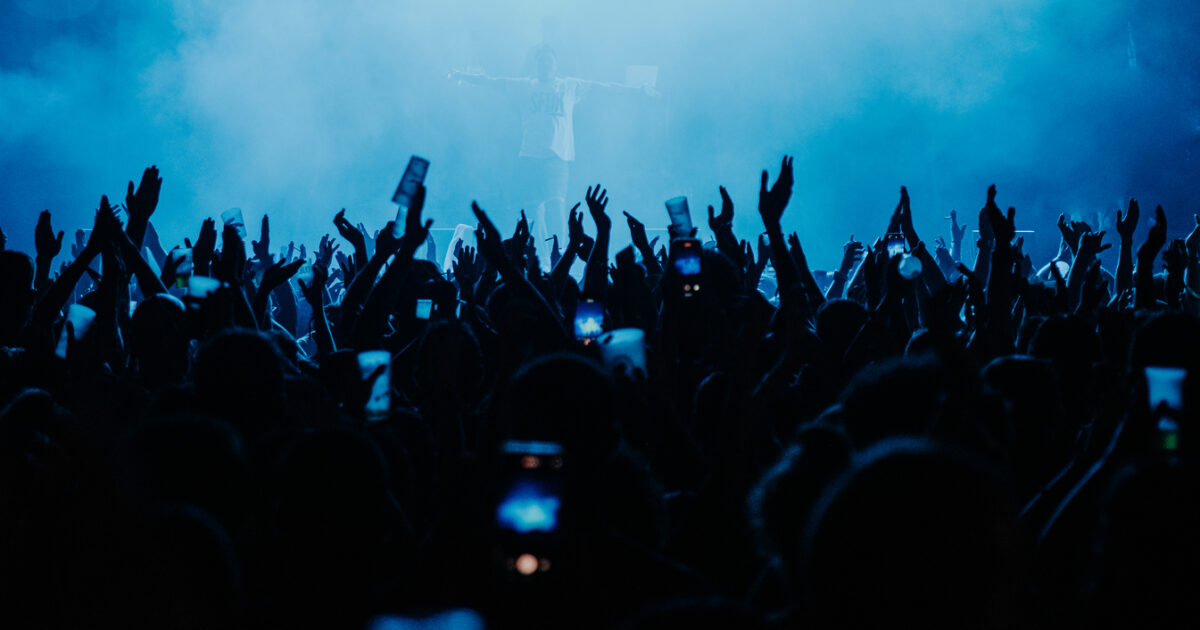
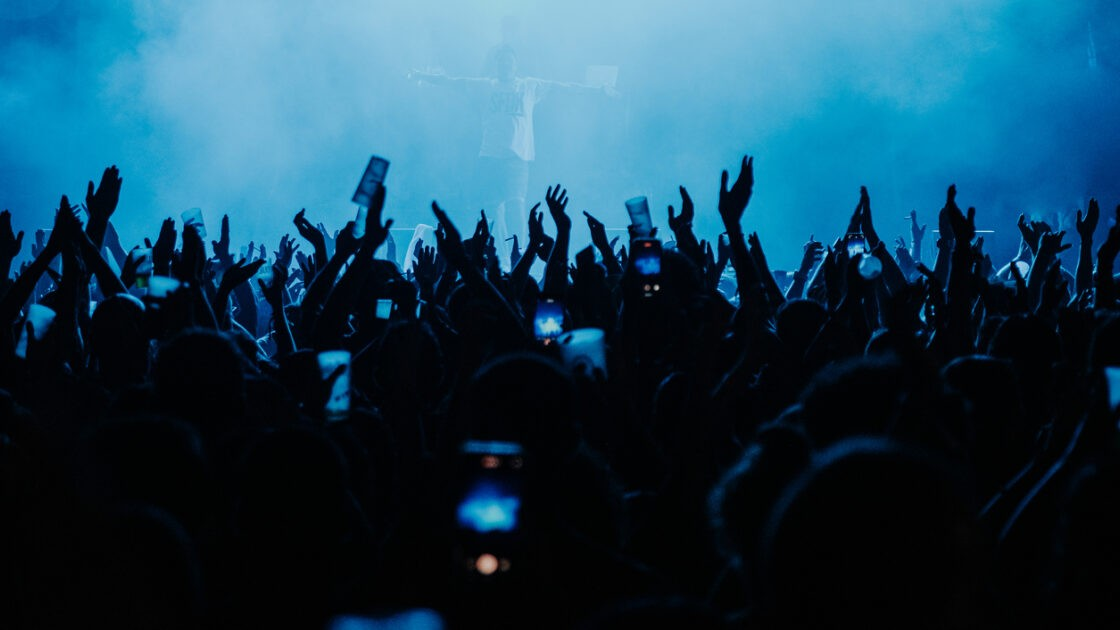
Event page hero section responsiveness fix

diff --git a/pages/events.php b/pages/events.php
@@ -20,54 +20,78 @@
 
     <!-- Hero Section -->
     <section id="carouselExampleAutoplaying" class="carousel slide" data-bs-ride="carousel">
-        <div class="carousel-inner" style="height: 450px;">
-            <div class="carousel-item active position-relative">
-            <img src="../assets\images\event-image\1.jpg" class="d-block w-100" >
-            <div class="carousel-caption d-md-block position-absolute top-50 start-50 translate-middle ">
-            <div class="text-center">
-                <h1 class="text-5xl font-bold mb-3 ">
-                    <i class="fas fa-umbrella-beach"></i>Live Events & Concerts
-                </h1>
-                <p class="text-xl mb-6">Discover amazing live performances, concerts, and festivels.</p>
-
+    <div class="carousel-inner">
+        <div class="carousel-item active">
+            <img src="../assets/images/event-image/1.jpg" class="d-block w-100 vh-50" alt="Event">
+            <div class="carousel-caption d-none d-md-block position-absolute top-50 start-50 translate-middle">
+                <div class="text-center">
+                    <h1 class="display-4 fw-bold mb-3">
+                        <i class="fas fa-umbrella-beach"></i>Live Events & Concerts
+                    </h1>
+                    <p class="lead mb-4">Discover amazing live performances, concerts, and festivals.</p>
+                </div>
             </div>
+            <!-- Mobile caption -->
+            <div class="carousel-caption d-md-none position-absolute top-50 start-50 translate-middle w-75">
+                <div class="text-center">
+                    <h2 class="fw-bold mb-2">
+                        <i class="fas fa-umbrella-beach"></i>Live Events & Concerts
+                    </h2>
+                    <p class="mb-3">Discover amazing live performances, concerts, and festivals.</p>
+                </div>
             </div>
-            </div>
-
-            <div class="carousel-item position-relative">
-            <img src="../assets\images\event-image\2.jpg" class="d-block w-100" >
-            <div class=" carousel-caption d-md-block position-absolute top-50 start-50 translate-middle">
-            <div class="text-center">
-                <h1 class="text-5xl font-bold mb-3 ">
-                    <i class="fas fa-umbrella-beach"></i>Live Events & Concerts
-                </h1>
-                <p class="text-xl mb-6">Discover amazing live performances, concerts, and festivels.</p>
-            </div>
-            </div>
-            </div>
-
-            <div class="carousel-item position-relative">
-            <img src="../assets\images\event-image\3.jpg" class="d-block w-100" >
-            <div class=" carousel-caption d-md-block position-absolute top-50 start-50 translate-middle">
-             <div class="text-center">
-                <h1 class="text-5xl font-bold mb-3 ">
-                    <i class="fas fa-umbrella-beach"></i>Live Events & Concerts
-                </h1>
-                <p class="text-xl mb-6">Discover amazing live performances, concerts, and festivels.</p>
-            </div>
-            </div>
-            </div>
-
-
         </div>
-        <button class="carousel-control-prev " type="button" data-bs-target="#carouselExampleAutoplaying" data-bs-slide="prev">
-            <span class="carousel-control-prev-icon" aria-hidden="true"></span>
-            <span class="visually-hidden">Previous</span>
-        </button>
-        <button class="carousel-control-next" type="button" data-bs-target="#carouselExampleAutoplaying" data-bs-slide="next">
-            <span class="carousel-control-next-icon" aria-hidden="true"></span>
-            <span class="visually-hidden">Next</span>
-        </button>
+
+        <div class="carousel-item">
+            <img src="../assets/images/event-image/2.jpg" class="d-block w-100 vh-50" alt="Event">
+            <div class="carousel-caption d-none d-md-block position-absolute top-50 start-50 translate-middle">
+                <div class="text-center">
+                    <h1 class="display-4 fw-bold mb-3">
+                        <i class="fas fa-umbrella-beach"></i>Live Events & Concerts
+                    </h1>
+                    <p class="lead mb-4">Discover amazing live performances, concerts, and festivals.</p>
+                </div>
+            </div>
+            <!-- Mobile caption -->
+            <div class="carousel-caption d-md-none position-absolute top-50 start-50 translate-middle w-75">
+                <div class="text-center">
+                    <h2 class="fw-bold mb-2">
+                        <i class="fas fa-umbrella-beach"></i>Live Events & Concerts
+                    </h2>
+                    <p class="mb-3">Discover amazing live performances, concerts, and festivals.</p>
+                </div>
+            </div>
+        </div>
+
+        <div class="carousel-item">
+            <img src="../assets/images/event-image/3.jpg" class="d-block w-100 vh-50" alt="Event">
+            <div class="carousel-caption d-none d-md-block position-absolute top-50 start-50 translate-middle">
+                <div class="text-center">
+                    <h1 class="display-4 fw-bold mb-3">
+                        <i class="fas fa-umbrella-beach"></i>Live Events & Concerts
+                    </h1>
+                    <p class="lead mb-4">Discover amazing live performances, concerts, and festivals.</p>
+                </div>
+            </div>
+            <!-- Mobile caption -->
+            <div class="carousel-caption d-md-none position-absolute top-50 start-50 translate-middle w-75">
+                <div class="text-center">
+                    <h2 class="fw-bold mb-2">
+                        <i class="fas fa-umbrella-beach"></i>Live Events & Concerts
+                    </h2>
+                    <p class="mb-3">Discover amazing live performances, concerts, and festivals.</p>
+                </div>
+            </div>
+        </div>
+    </div>
+    <button class="carousel-control-prev " type="button" data-bs-target="#carouselExampleAutoplaying" data-bs-slide="prev">
+        <span class="carousel-control-prev-icon" aria-hidden="true"></span>
+        <span class="visually-hidden">Previous</span>
+    </button>
+    <button class="carousel-control-next" type="button" data-bs-target="#carouselExampleAutoplaying" data-bs-slide="next">
+        <span class="carousel-control-next-icon" aria-hidden="true"></span>
+        <span class="visually-hidden">Next</span>
+    </button>
 </section>
 
     <!-- Filter Section -->
